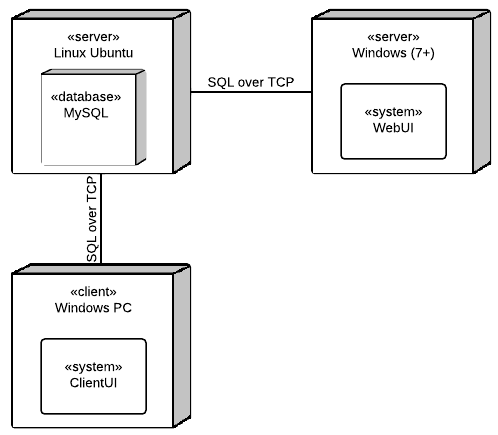
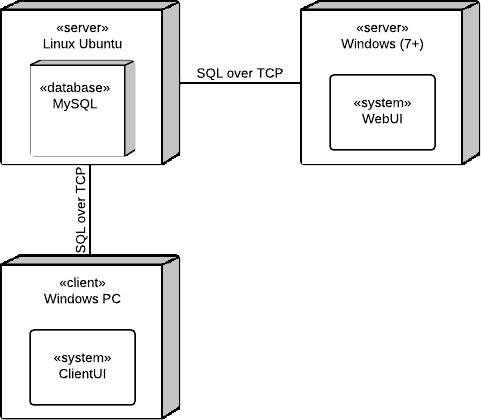
Updated graphics and finished logical section

Changed region(s): [[0.0, 0.0, 1.0, 1.0]]

diff --git a/report/Software_architecture/logical.tex b/report/Software_architecture/logical.tex
@@ -1,1 +1,41 @@
-This is for the Logical Views.
+\subsection{Logical View}
+
+The architecture is based around a reusable application logic layer, that connects to the
+local file system and a MySQL database as needed. Additionally, it can easily be used by
+both the Web-Only UI and the Local UI.
+
+\begin{figure}[htb]
+	\centering
+	\includegraphics[width=0.7\textwidth]{Software_architecture/graphics/application-layers.png}
+	\caption{Layers of the application}
+	\label{fig:application-layers}
+\end{figure}
+
+Because of this structure, we have an architecture that is split in that it supports two
+parallel UI layers and two parallel data layers (see Figure \ref{fig:application-layers}).
+
+From these layers our package diagram almost directly follows (Figure \ref{fig:package-diagram}).
+To communicate with the different data layers, we have two separate models. It is important to
+note that the \emph{LocalFileModel} connects to both the file system (in most situations) and
+to the MySQL database (when this is explicitly requested).
+
+\begin{figure}[htb]
+	\centering
+	\includegraphics[width=0.5\textwidth]{Software_architecture/graphics/package-diagram.png}
+	\caption{Package Diagram showing dependencies from the UIs to the Application Logic}
+	\label{fig:package-diagram}
+\end{figure}
+
+With the overall architecture in place, the last important logical component of the architecural design
+consists of the basic classes that all packages use (Figure \ref{fig:basic-classes}): \emph{Document},
+\emph{Folder} and \emph{Project}. These are mostly defined in their implementations of \emph{IItemContainer}
+and \emph{IItem}. \emph{IItem} defines an "item"; something that can be contained in an
+\emph{IItemContainer}. This is important as Folders may both \emph{contain} and \emph{be contained},
+whereas Documents may only be contained and Projects may only contain.
+
+\begin{figure}[htb]
+	\centering
+	\includegraphics[width=0.9\textwidth]{Software_architecture/graphics/basic-classes.png}
+	\caption{Basic classes sent around in the application and their relative relationship.}
+	\label{fig:basic-classes}
+\end{figure}
